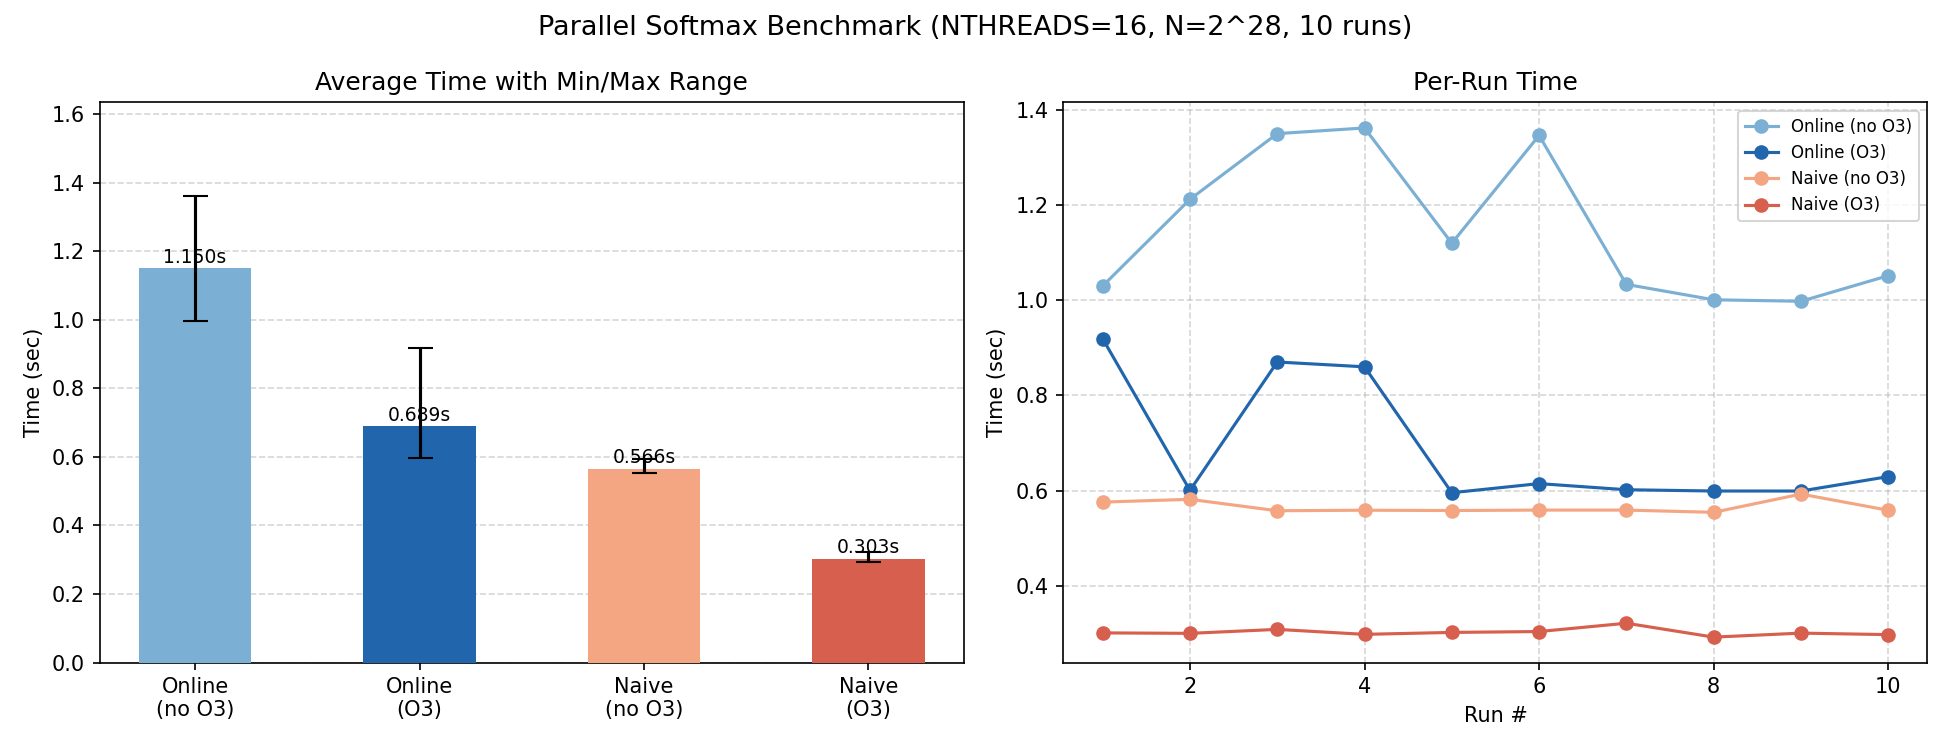
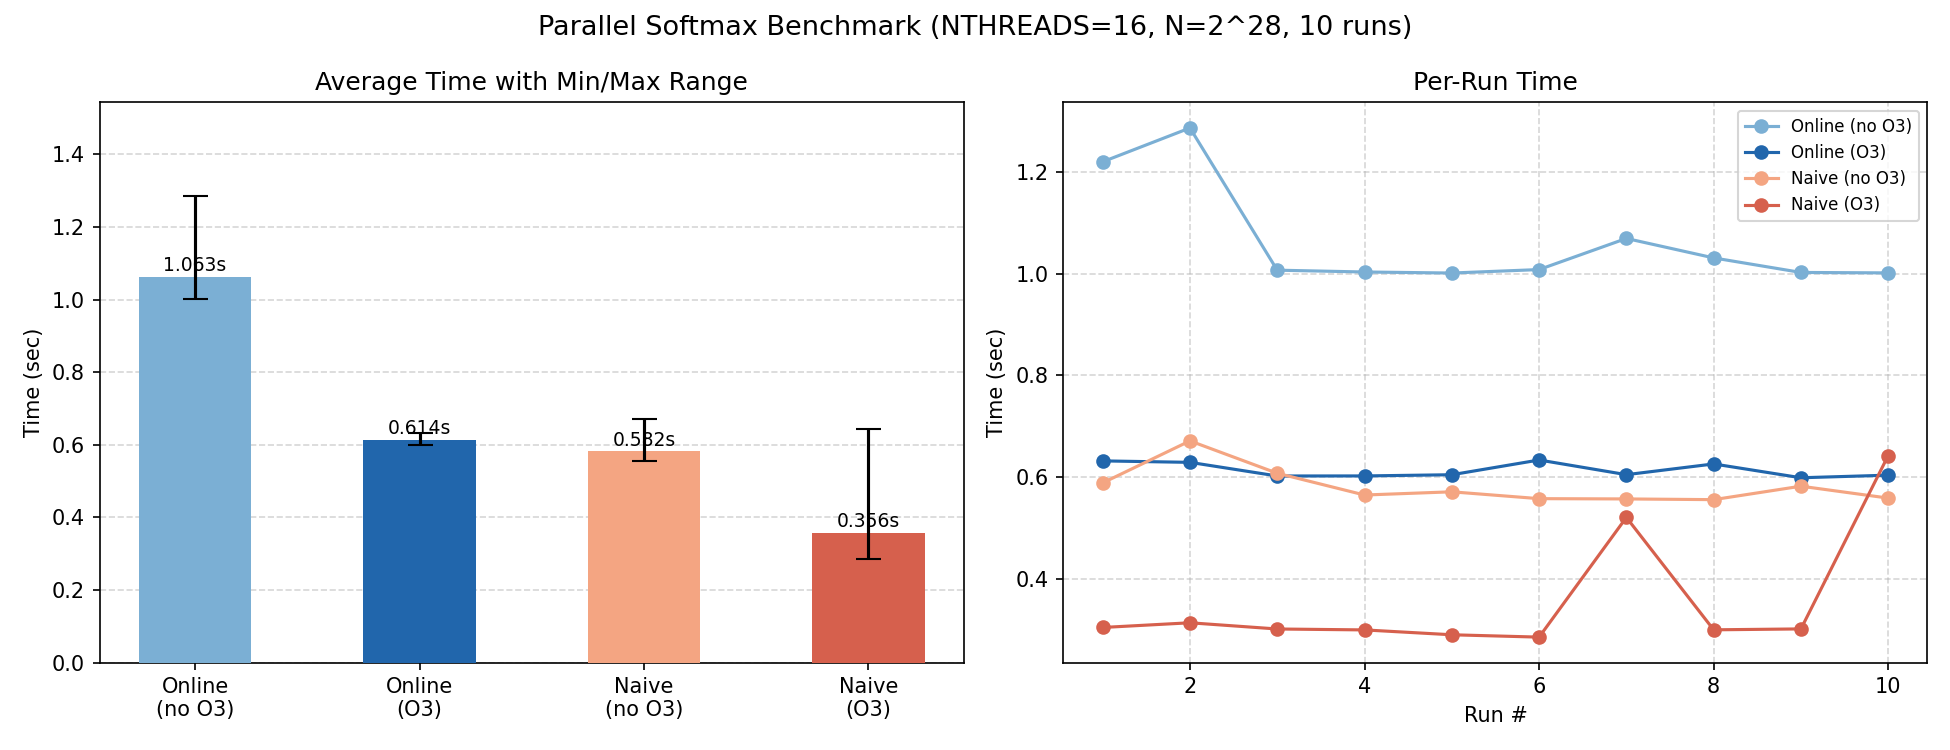
refactor : Naive Softmax 전환

diff --git a/hw1/softmax_parallel.h b/hw1/softmax_parallel.h
@@ -1,6 +1,5 @@
 #include <algorithm>
 #include <cmath>
-#include <limits>
 #include <thread>
 // Do NOT add any other headers.
 
@@ -28,53 +27,55 @@ inline void softmax_parallel(float *in, float *out, int elems) {
 	/* You don't have to parallelize all of your code - it's up to you. */
 
 	float local_max[NTHREADS];
-	float local_sum[NTHREADS]; // exp 보정 누적합 (online softmax의 d값)
+	float local_sum[NTHREADS];
 	std::thread threads[NTHREADS];
 
-	// Phase 1 (병렬): Online Softmax
-	// 각 스레드가 담당 구간에서 max와 sum을 한 번의 pass로 동시에 계산
-	// 일반적인 방법은 max 탐색 후 exp 계산이지만, online softmax는
-	// max가 갱신될 때마다 기존 합을 exp(m_old - m_new)로 보정하면서 진행
+	// Phase 1 (병렬): 구간별 max 탐색
 	for (int t = 0; t < NTHREADS; t++) {
 		int start = (long long)t * elems / NTHREADS;
 		int end   = (long long)(t + 1) * elems / NTHREADS;
-		threads[t] = std::thread([=, &local_max, &local_sum]() {
-			float m = -std::numeric_limits<float>::infinity();
-			float d = 0.0f;
-			for (int i = start; i < end; i++) {
-				float x = in[i];
-				float m_new = std::max(m, x);
-				// 이전 합(d)을 새로운 max 기준으로 보정 후 현재 원소 추가
-				d = d * std::exp(m - m_new) + std::exp(x - m_new);
-				m = m_new;
-			}
+		threads[t] = std::thread([=, &local_max]() {
+			float m = in[start];
+			for (int i = start + 1; i < end; i++)
+				m = std::max(m, in[i]);
 			local_max[t] = m;
-			local_sum[t] = d;
 		});
 	}
 	for (int t = 0; t < NTHREADS; t++) threads[t].join();
 
-	// Reduction: 각 스레드의 (local_max, local_sum)을 하나로 합침
-	// 두 구간 (m1,d1), (m2,d2)를 합칠 때도 동일한 보정 공식 적용
+	// Reduction: global_max 확정
 	float global_max = local_max[0];
-	float global_sum = local_sum[0];
-	for (int t = 1; t < NTHREADS; t++) {
-		float m_new = std::max(global_max, local_max[t]);
-		global_sum = global_sum * std::exp(global_max - m_new)
-		           + local_sum[t] * std::exp(local_max[t] - m_new);
-		global_max = m_new;
-	}
-	float inv_sum = 1.0f / global_sum; // 나눗셈 대신 역수 곱셈으로 성능 개선
+	for (int t = 1; t < NTHREADS; t++)
+		global_max = std::max(global_max, local_max[t]);
 
-	// Phase 2 (병렬): 최종 softmax 값 계산
-	// global_max와 inv_sum이 확정된 후 각 원소에 대해 exp(x - max) * inv_sum
+	// Phase 2 (병렬): exp 계산 + 구간별 합산
+	for (int t = 0; t < NTHREADS; t++) {
+		int start = (long long)t * elems / NTHREADS;
+		int end   = (long long)(t + 1) * elems / NTHREADS;
+		threads[t] = std::thread([=, &local_sum]() {
+			float s = 0.0f;
+			for (int i = start; i < end; i++) {
+				out[i] = std::exp(in[i] - global_max);
+				s += out[i];
+			}
+			local_sum[t] = s;
+		});
+	}
+	for (int t = 0; t < NTHREADS; t++) threads[t].join();
+
+	// Reduction: global_sum 확정
+	float global_sum = 0.0f;
+	for (int t = 0; t < NTHREADS; t++)
+		global_sum += local_sum[t];
+	float inv_sum = 1.0f / global_sum;
+
+	// Phase 3 (병렬): 나누기
 	for (int t = 0; t < NTHREADS; t++) {
 		int start = (long long)t * elems / NTHREADS;
 		int end   = (long long)(t + 1) * elems / NTHREADS;
 		threads[t] = std::thread([=]() {
-			for (int i = start; i < end; i++) {
-				out[i] = std::exp(in[i] - global_max) * inv_sum;
-			}
+			for (int i = start; i < end; i++)
+				out[i] *= inv_sum;
 		});
 	}
 	for (int t = 0; t < NTHREADS; t++) threads[t].join();